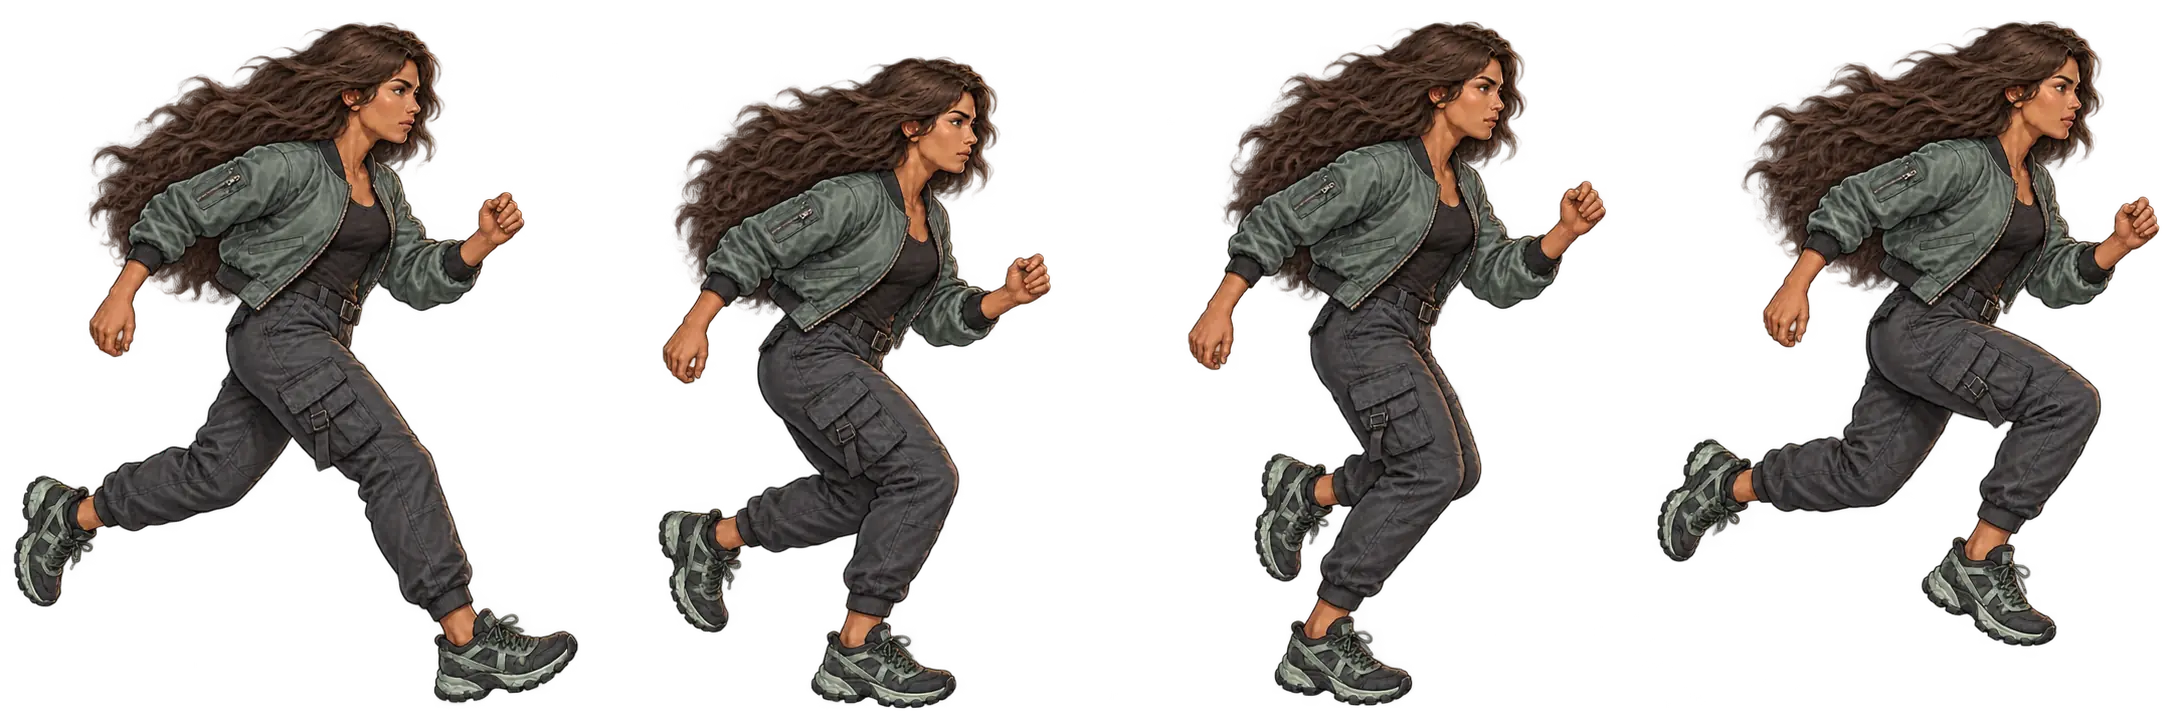
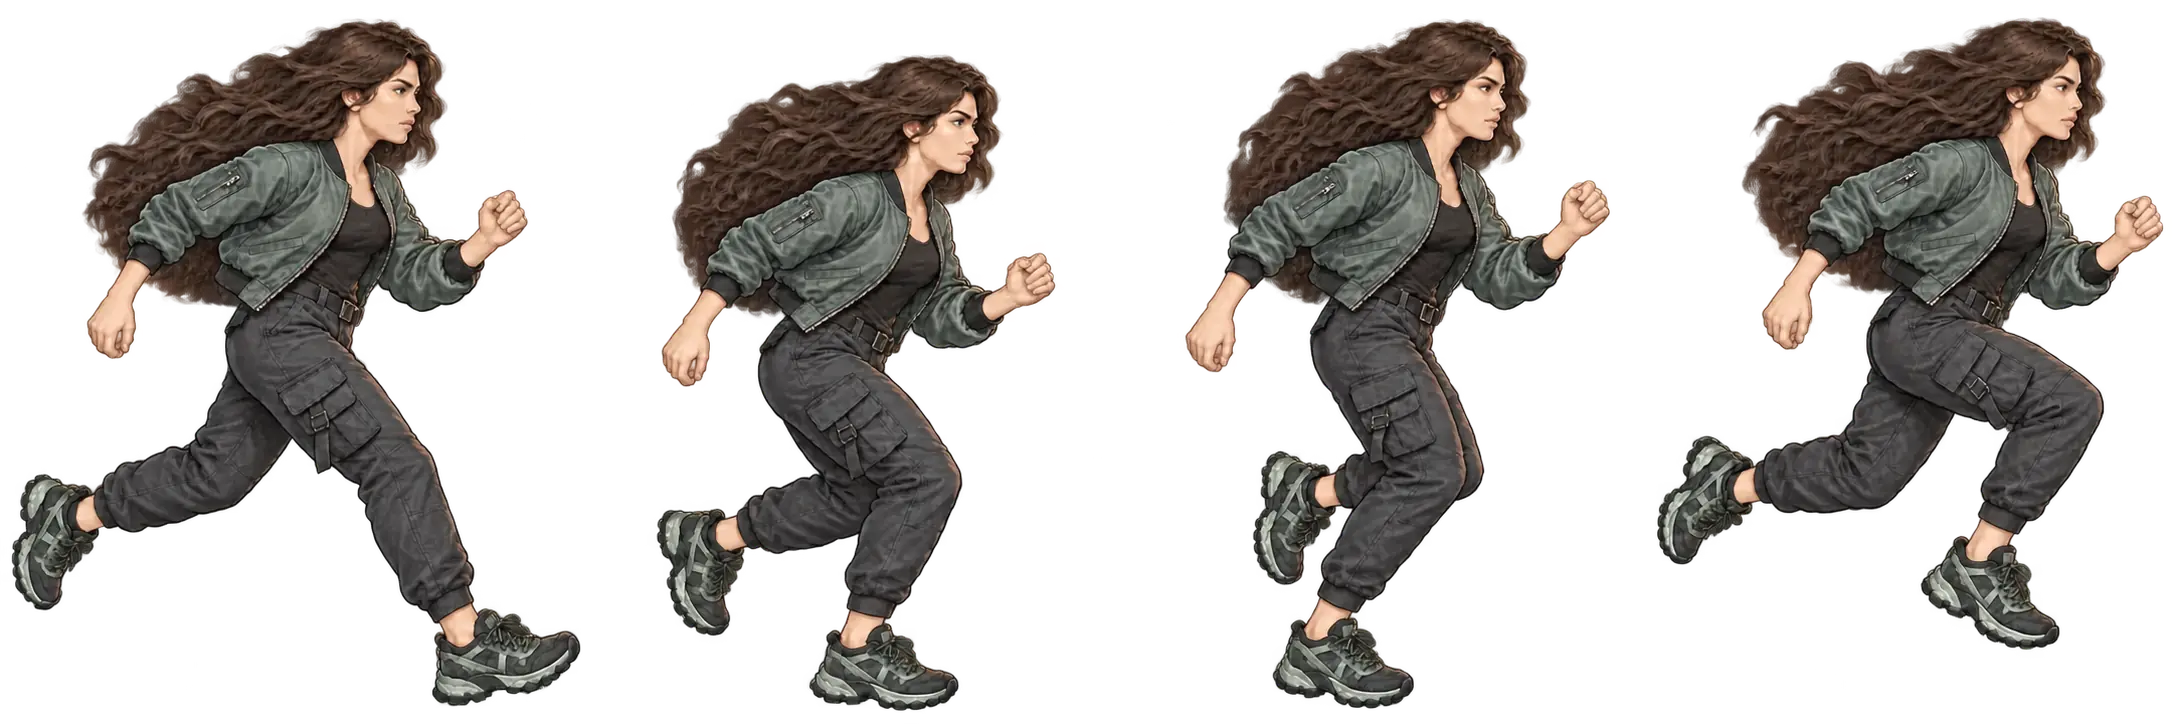
Add animal forms and movement cycles

diff --git a/game.js b/game.js
@@ -4,34 +4,34 @@ const PEOPLE = {
   C: {
     age: "Teenager",
     accent: "#aa78ef",
-    art: { human: "assets/forms/c-human.webp", run: "assets/forms/c-human-run.webp", flight: "assets/forms/c-flight.webp", chaos: "assets/forms/c-chaos.webp" },
-    human: { animal: "C", ability: "Improvised vault", description: "Find the shortcut by confidently making one up." },
+    art: { human: "assets/forms/c-human.webp", run: "assets/forms/c-human-run.webp", flight: "assets/forms/c-flight.webp", flightRun: "assets/forms/c-flight-run.webp", chaos: "assets/forms/c-chaos.webp", chaosRun: "assets/forms/c-chaos-run.webp" },
+    human: { animal: "Human", ability: "Improvised vault", description: "Find the shortcut by confidently making one up." },
     flight: { animal: "Flamingo", ability: "Stilt vault", description: "Balance, wade, and vault with unnecessary elegance." },
     chaos: { animal: "Red fox", ability: "Burrow dash", description: "Dig shortcuts and outfox objects with no brain." }
   },
   A: {
     age: "Adult",
     accent: "#d84c59",
-    art: { human: "assets/forms/a-human.webp", run: "assets/forms/a-human-run.webp", flight: "assets/forms/a-flight.webp", chaos: "assets/forms/a-chaos.webp" },
-    human: { animal: "A", ability: "Protective force", description: "Remove an obstacle from everyone else's problem list." },
-    flight: { animal: "Cassowary", ability: "Airborne violence", description: "Technically flight. Legally an incident." },
-    chaos: { animal: "Giant black snake", ability: "Constrict", description: "Crush barriers and move with terrifying purpose." }
+    art: { human: "assets/forms/a-human.webp", run: "assets/forms/a-human-run.webp", flight: "assets/forms/a-flight.webp", flightRun: "assets/forms/a-flight-run.webp", chaos: "assets/forms/a-chaos.webp" },
+    human: { animal: "Human", ability: "Protective force", description: "Remove an obstacle from everyone else's problem list." },
+    flight: { animal: "Peacock", ability: "Dramatic charge", description: "Turn every entrance into a loud, feathery announcement." },
+    chaos: { animal: "Giant black wolf", ability: "Pack-force smash", description: "Clear a path with enormous, protective wolf energy." }
   },
   S: {
     age: "Adult",
     accent: "#91a99b",
-    art: { human: "assets/forms/s-human.webp", run: "assets/forms/s-human-run.webp", flight: "assets/forms/s-flight.webp", chaos: "assets/forms/s-chaos.webp" },
-    human: { animal: "S", ability: "Rapid plan", description: "Think three moves ahead, then run there immediately." },
+    art: { human: "assets/forms/s-human.webp", run: "assets/forms/s-human-run.webp", flight: "assets/forms/s-flight.webp", flightRun: "assets/forms/s-flight-run.webp", chaos: "assets/forms/s-chaos.webp", chaosRun: "assets/forms/s-chaos-run.webp" },
+    human: { animal: "Human", ability: "Rapid plan", description: "Think three moves ahead, then run there immediately." },
     flight: { animal: "Crow", ability: "Bright idea", description: "Glide, scout, and attract useful shiny things." },
-    chaos: { animal: "Cheetah", ability: "Fast brain", description: "Move so quickly the rest of reality needs a minute." }
+    chaos: { animal: "Slim black panther", ability: "Silent pounce", description: "Slip out of sight, then reappear exactly where useful." }
   },
   E: {
     age: "Preteen",
     accent: "#20c9c3",
-    art: { human: "assets/forms/e-human.webp", run: "assets/forms/e-human-run.webp", flight: "assets/forms/e-flight.webp", chaos: "assets/forms/e-chaos.webp" },
-    human: { animal: "E", ability: "Quick thinking", description: "A small person with an alarmingly large speed boost." },
+    art: { human: "assets/forms/e-human.webp", run: "assets/forms/e-human-run.webp", flight: "assets/forms/e-flight.webp", chaos: "assets/forms/e-chaos.webp", chaosRun: "assets/forms/e-chaos-run.webp" },
+    human: { animal: "Human", ability: "Quick thinking", description: "A small person with an alarmingly large speed boost." },
     flight: { animal: "Great horned owl", ability: "Night sight", description: "Reveal secrets and move without announcing it." },
-    chaos: { animal: "Raccoon", ability: "Rummage", description: "Open containers and convert garbage into progress." }
+    chaos: { animal: "Cheetah", ability: "Fast as heck", description: "Turn a tiny opening into a full-speed blur." }
   }
 };
 
@@ -72,7 +72,8 @@ document.querySelectorAll(".form-choice").forEach(button => button.addEventListe
 
 for (const [id, p] of Object.entries(PEOPLE)) {
   images[id] = {};
-  for (const mode of [...modes, "run"]) {
+  for (const mode of [...modes, "run", "flightRun", "chaosRun"]) {
+    if (!p.art[mode]) continue;
     const img = new Image();
     img.src = p.art[mode];
     images[id][mode] = img;
@@ -602,10 +603,14 @@ function drawSpaceWorld() {
 
 function drawPlayer() {
   const runningHuman = state.mode === "human" && state.level !== "space" && (Math.abs(state.vx) > .45 || !state.grounded);
-  const img = runningHuman ? images[state.current].run : images[state.current][state.mode];
+  const runKey = `${state.mode}Run`;
+  const movingAnimal = state.mode !== "human" && Boolean(images[state.current][runKey]) &&
+    (state.mode === "flight" || Math.abs(state.vx) > .45 || !state.grounded);
+  const img = runningHuman ? images[state.current].run : movingAnimal ? images[state.current][runKey] : images[state.current][state.mode];
   if (!img.complete || !img.naturalWidth) return;
   let w = state.mode === "human" ? 150 : state.mode === "flight" ? 230 : 245;
-  let h = w * (img.naturalHeight / img.naturalWidth);
+  const frameCount = runningHuman || movingAnimal ? 4 : 1;
+  let h = w * (img.naturalHeight / (img.naturalWidth / frameCount));
   if (state.mode === "human") {
     const humanWidths = { C: 155, A: 145, S: 142, E: 148 };
     w = humanWidths[state.current];
@@ -614,10 +619,11 @@ function drawPlayer() {
   if (state.current === "A" && state.mode === "flight") { w = 205; h = w * (img.naturalHeight / img.naturalWidth); }
   if (state.current === "A" && state.mode === "chaos") { w = 260; h = w * (img.naturalHeight / img.naturalWidth); }
   const motion = creatureMotion();
-  if (runningHuman) {
-    motion.frameIndex = state.grounded ? Math.floor(state.motionPhase * .9) % 4 : 3;
+  if (runningHuman || movingAnimal) {
+    motion.frameIndex = !state.grounded && state.mode !== "flight" ? 3 : Math.floor(state.motionPhase * (state.mode === "flight" ? 1.5 : .9)) % 4;
     motion.frameCount = 4;
   }
+  if (state.current === "E" && state.mode === "flight") motion.wave = 5;
 
   if (state.level !== "space") {
     ctx.save();

diff --git a/README.md b/README.md
@@ -7,9 +7,11 @@ A silly, easy browser adventure for four people with human, flight, and chaos fo
 | Character | Human ability | Flight form | Chaos form |
 |---|---|---|---|
 | C | Improvised vault | Flamingo | Red fox |
-| A | Protective force | Cassowary | Giant black snake |
-| S | Rapid plan | Crow | Cheetah |
-| E | Quick thinking | Great horned owl | Raccoon |
+| A | Protective force | Peacock | Giant black wolf |
+| S | Rapid plan | Crow | Slim black panther |
+| E | Quick thinking | Great horned owl | Cheetah |
+
+The game opens in human form. Character art includes separate walk/run cycles for human and animal forms; birds use wingbeat cycles, while the owl's wings are animated procedurally.
 
 Aquatic forms and additional animal groups are intentionally reserved for much later unlock systems.
 
